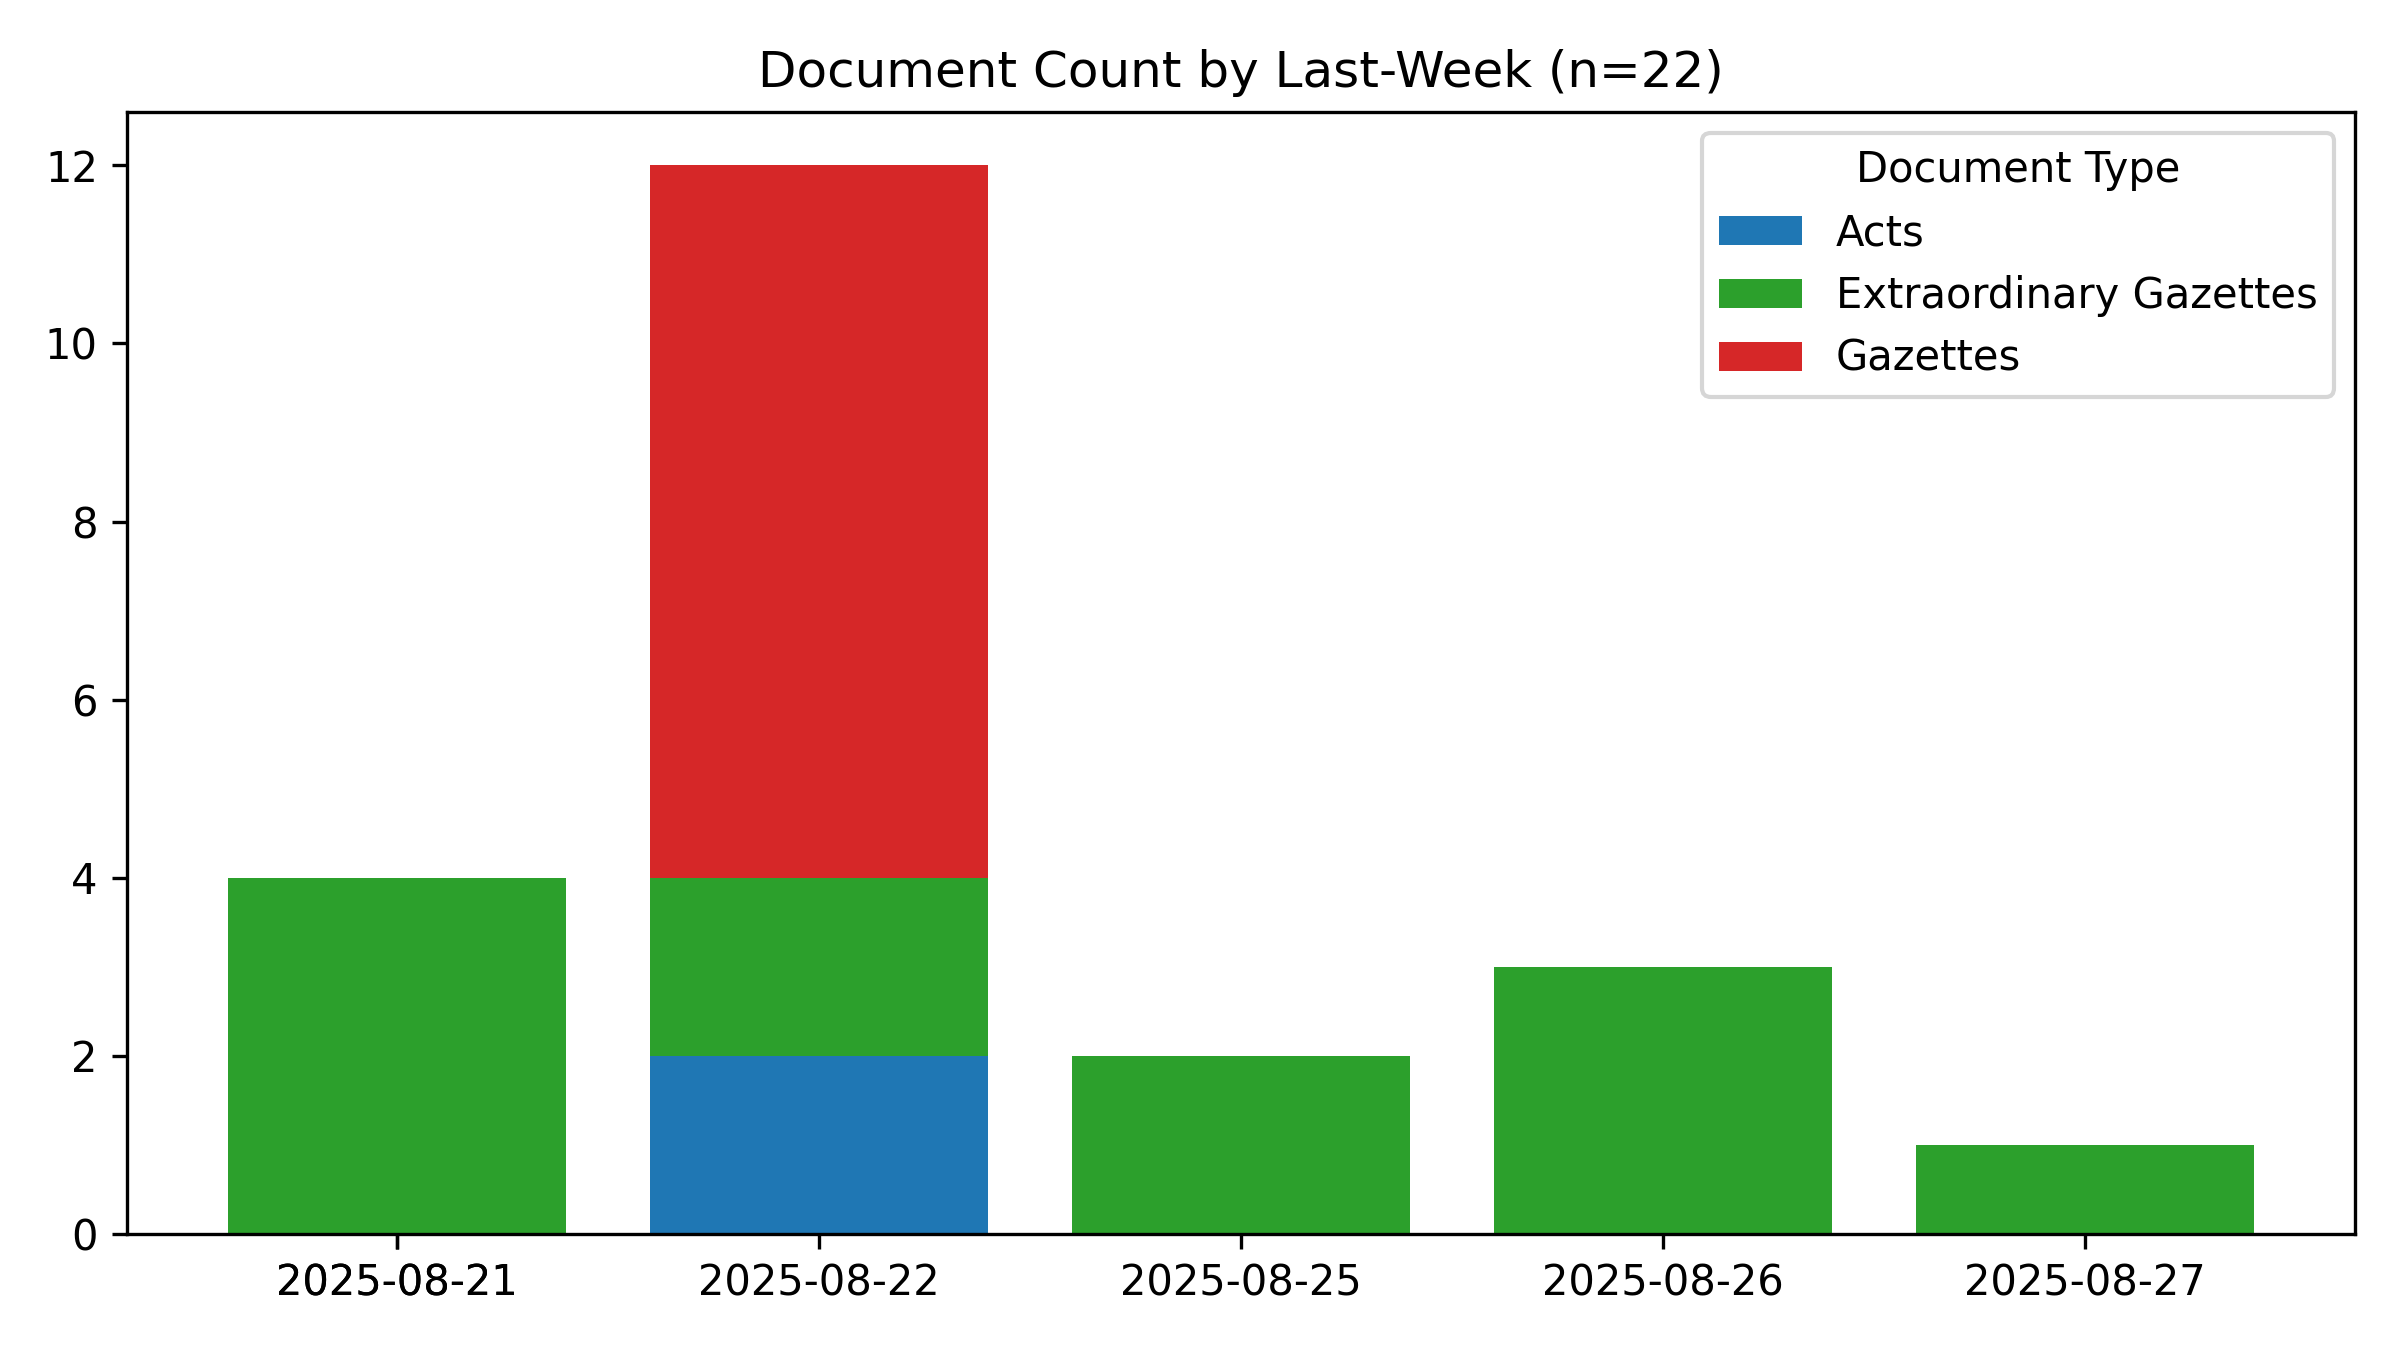
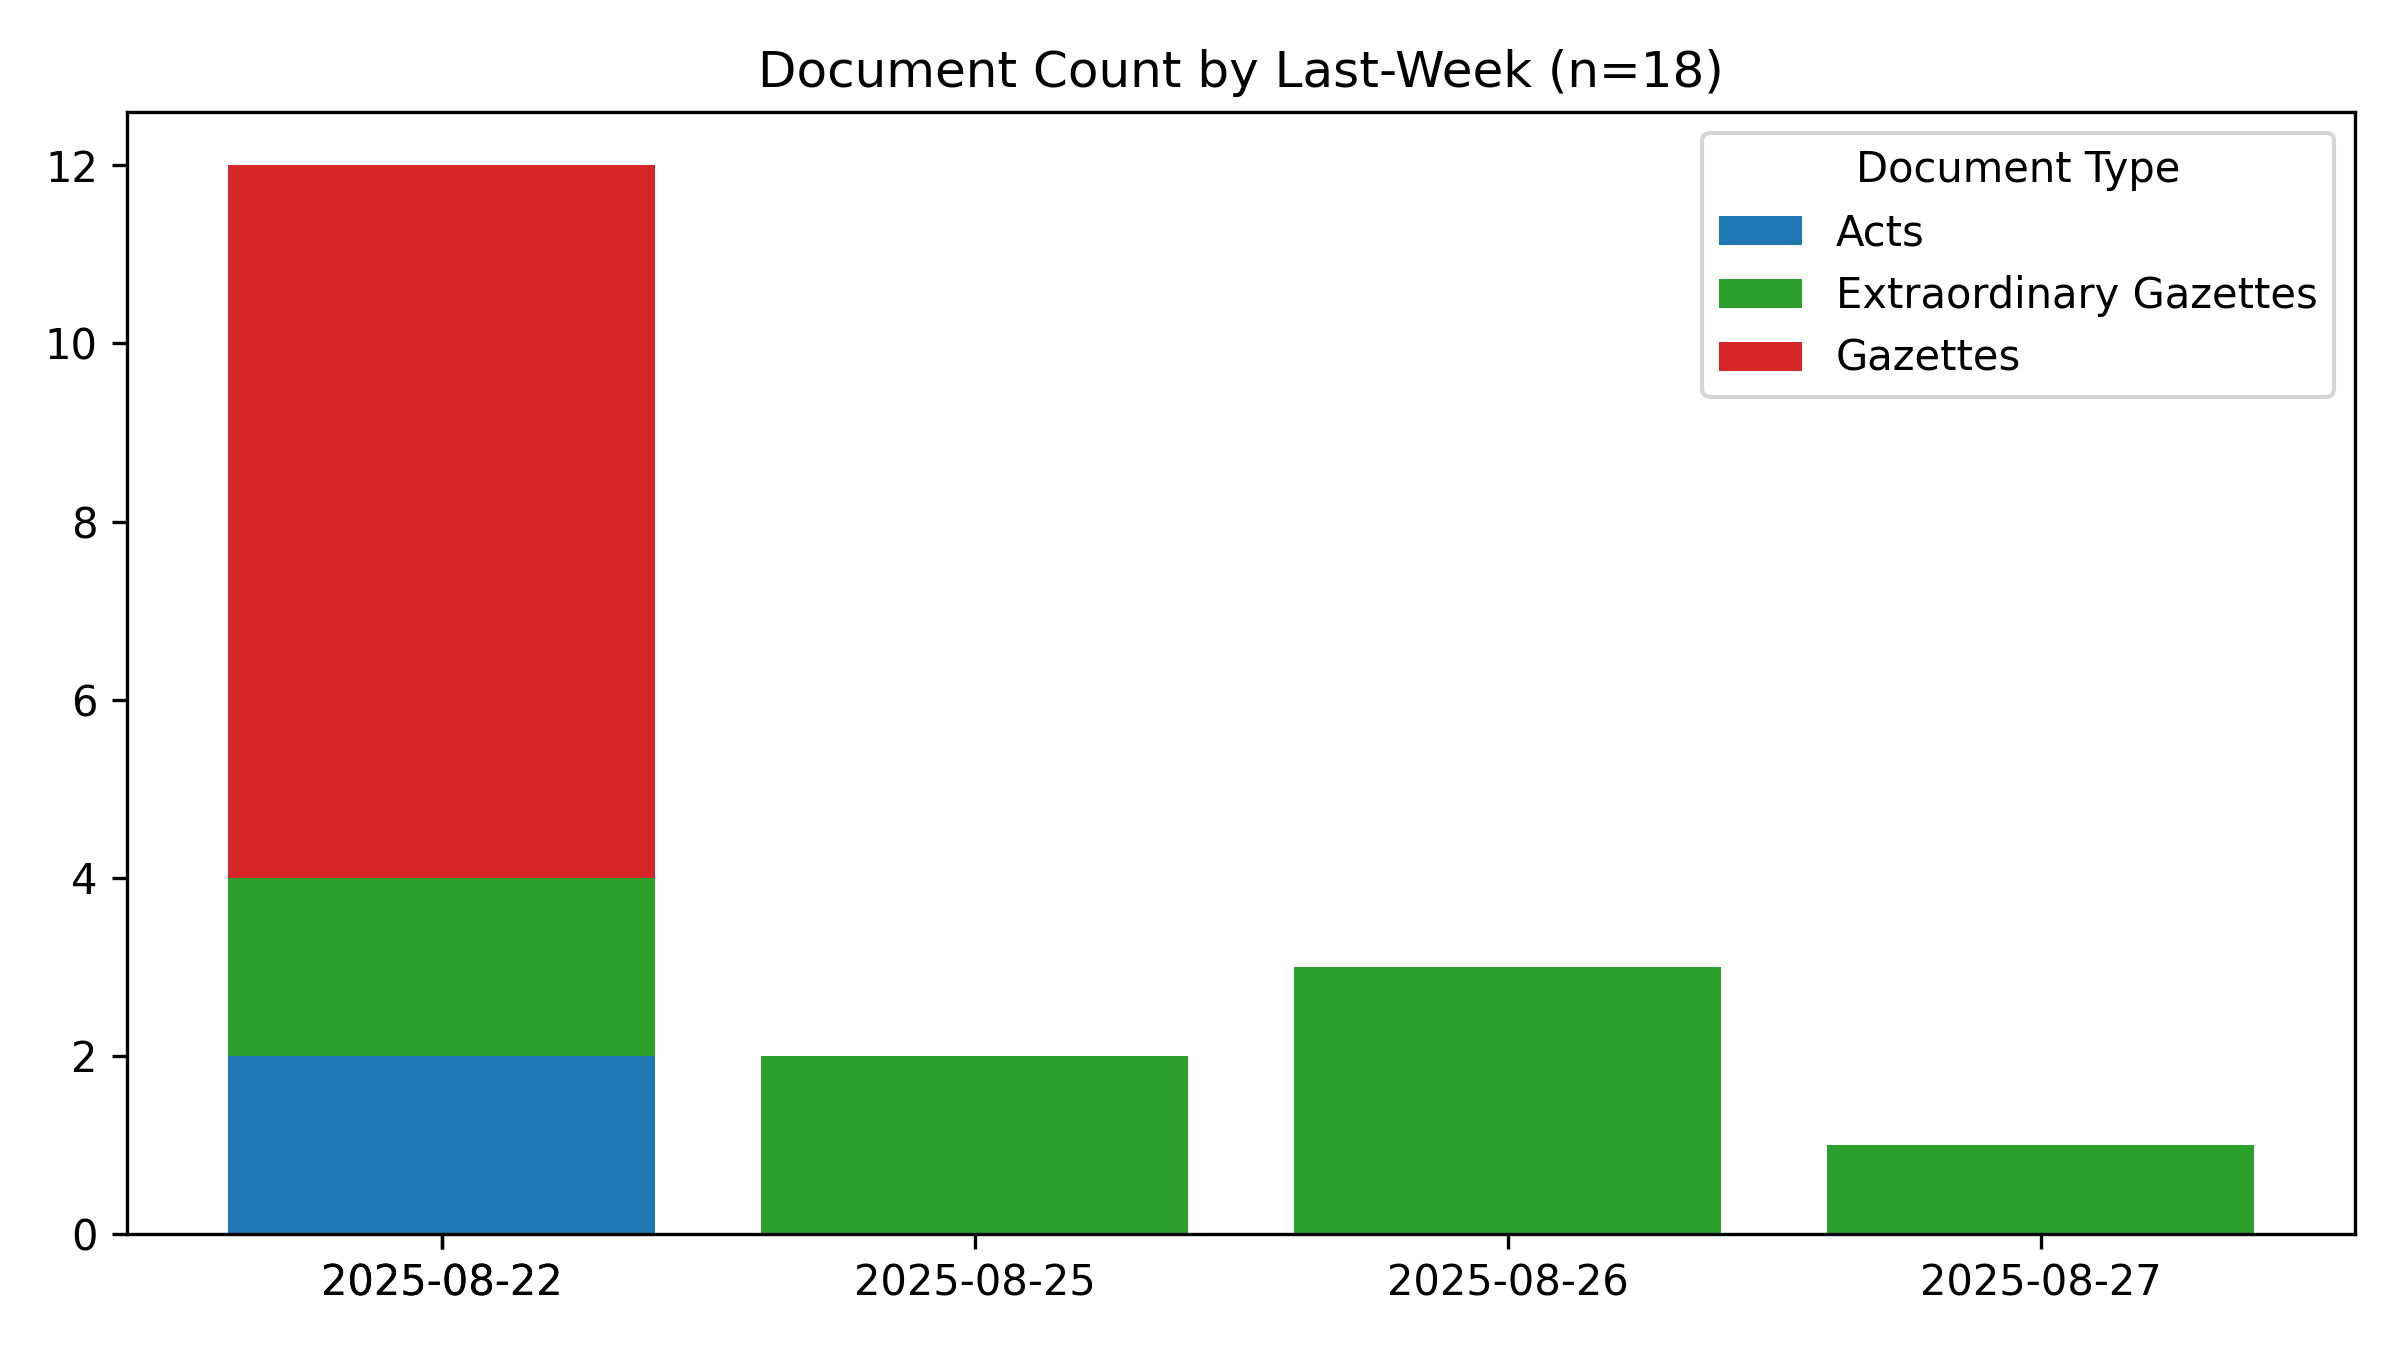
🤖 [build_readme.yml] 2025-08-29-0015

Changed region(s): [[0.0938, 0.1244, 0.8125, 0.9644], [0.8125, 0.9333, 0.9062, 0.9644], [0.6875, 0.0311, 0.7188, 0.0622]]

diff --git a/README.md b/README.md
@@ -1,6 +1,6 @@
 # #SriLanka 🇱🇰 - Legal Documents #Dataset
 
-*Last Updated **2025-08-29 05:12:53**.*
+*Last Updated **2025-08-29 05:45:43**.*
 
 **44,453** documents (24.3 MB), from 1981-01-22 to 2025-08-27.
 
@@ -54,7 +54,7 @@ For best results, use a desktop browser.
 
 ## Recent Documents (Published during the last 7 days)
 
-**22** Documents
+**18** Documents
 
 - 🚨 [2025-08-27] [Presidential Secretariat - Public Security Ordinance (Chapter 40) Order](https://github.com/nuuuwan/lk_legal_docs_data/tree/data_2020s/data/extra-gazettes/2025/2451-15)
 - 🚨 [2025-08-26] [Public Utilities Sri Lanka Electricity Act, No. 20 of 2009 (Amended) issuance of Certificate of Exemption](https://github.com/nuuuwan/lk_legal_docs_data/tree/data_2020s/data/extra-gazettes/2025/2451-14)
@@ -74,7 +74,3 @@ For best results, use a desktop browser.
 - 📢 [2025-08-22] [(I) - General](https://github.com/nuuuwan/lk_legal_docs_data/tree/data_2020s/data/gazettes/2025/2025-08-22-i-general)
 - 🏛 [2025-08-22] [Rubber Control (Amendment)](https://github.com/nuuuwan/lk_legal_docs_data/tree/data_2020s/data/acts/2025/16-2025)
 - 🏛 [2025-08-22] [Samurdhi (Amendment)](https://github.com/nuuuwan/lk_legal_docs_data/tree/data_2020s/data/acts/2025/15-2025)
-- 🚨 [2025-08-21] [M/ of Youth Affairs and Sports- Sports Act, No. 25 of 1973 Amended Extra Ordinary Gazette Notification](https://github.com/nuuuwan/lk_legal_docs_data/tree/data_2020s/data/extra-gazettes/2025/2450-42)
-- 🚨 [2025-08-21] [M/ of Education, Higher Education and Vocational Education- Universities Act, No. 16 of 1978 Sri Lanka Technology Campus (PVT) Limited](https://github.com/nuuuwan/lk_legal_docs_data/tree/data_2020s/data/extra-gazettes/2025/2450-41)
-- 🚨 [2025-08-21] [M/ of Education, Higher Education and Vocational Education- Universities Act, No. 16 of 1978 Degree Awarding Institute Order (SLIIT)](https://github.com/nuuuwan/lk_legal_docs_data/tree/data_2020s/data/extra-gazettes/2025/2450-40)
-- 🚨 [2025-08-21] [Ministry of Defence - Amendment to the Consolidated List under Regulation 4 (2) (B) United Nations Regulations No. 2 of 2012](https://github.com/nuuuwan/lk_legal_docs_data/tree/data_2020s/data/extra-gazettes/2025/2450-39)
